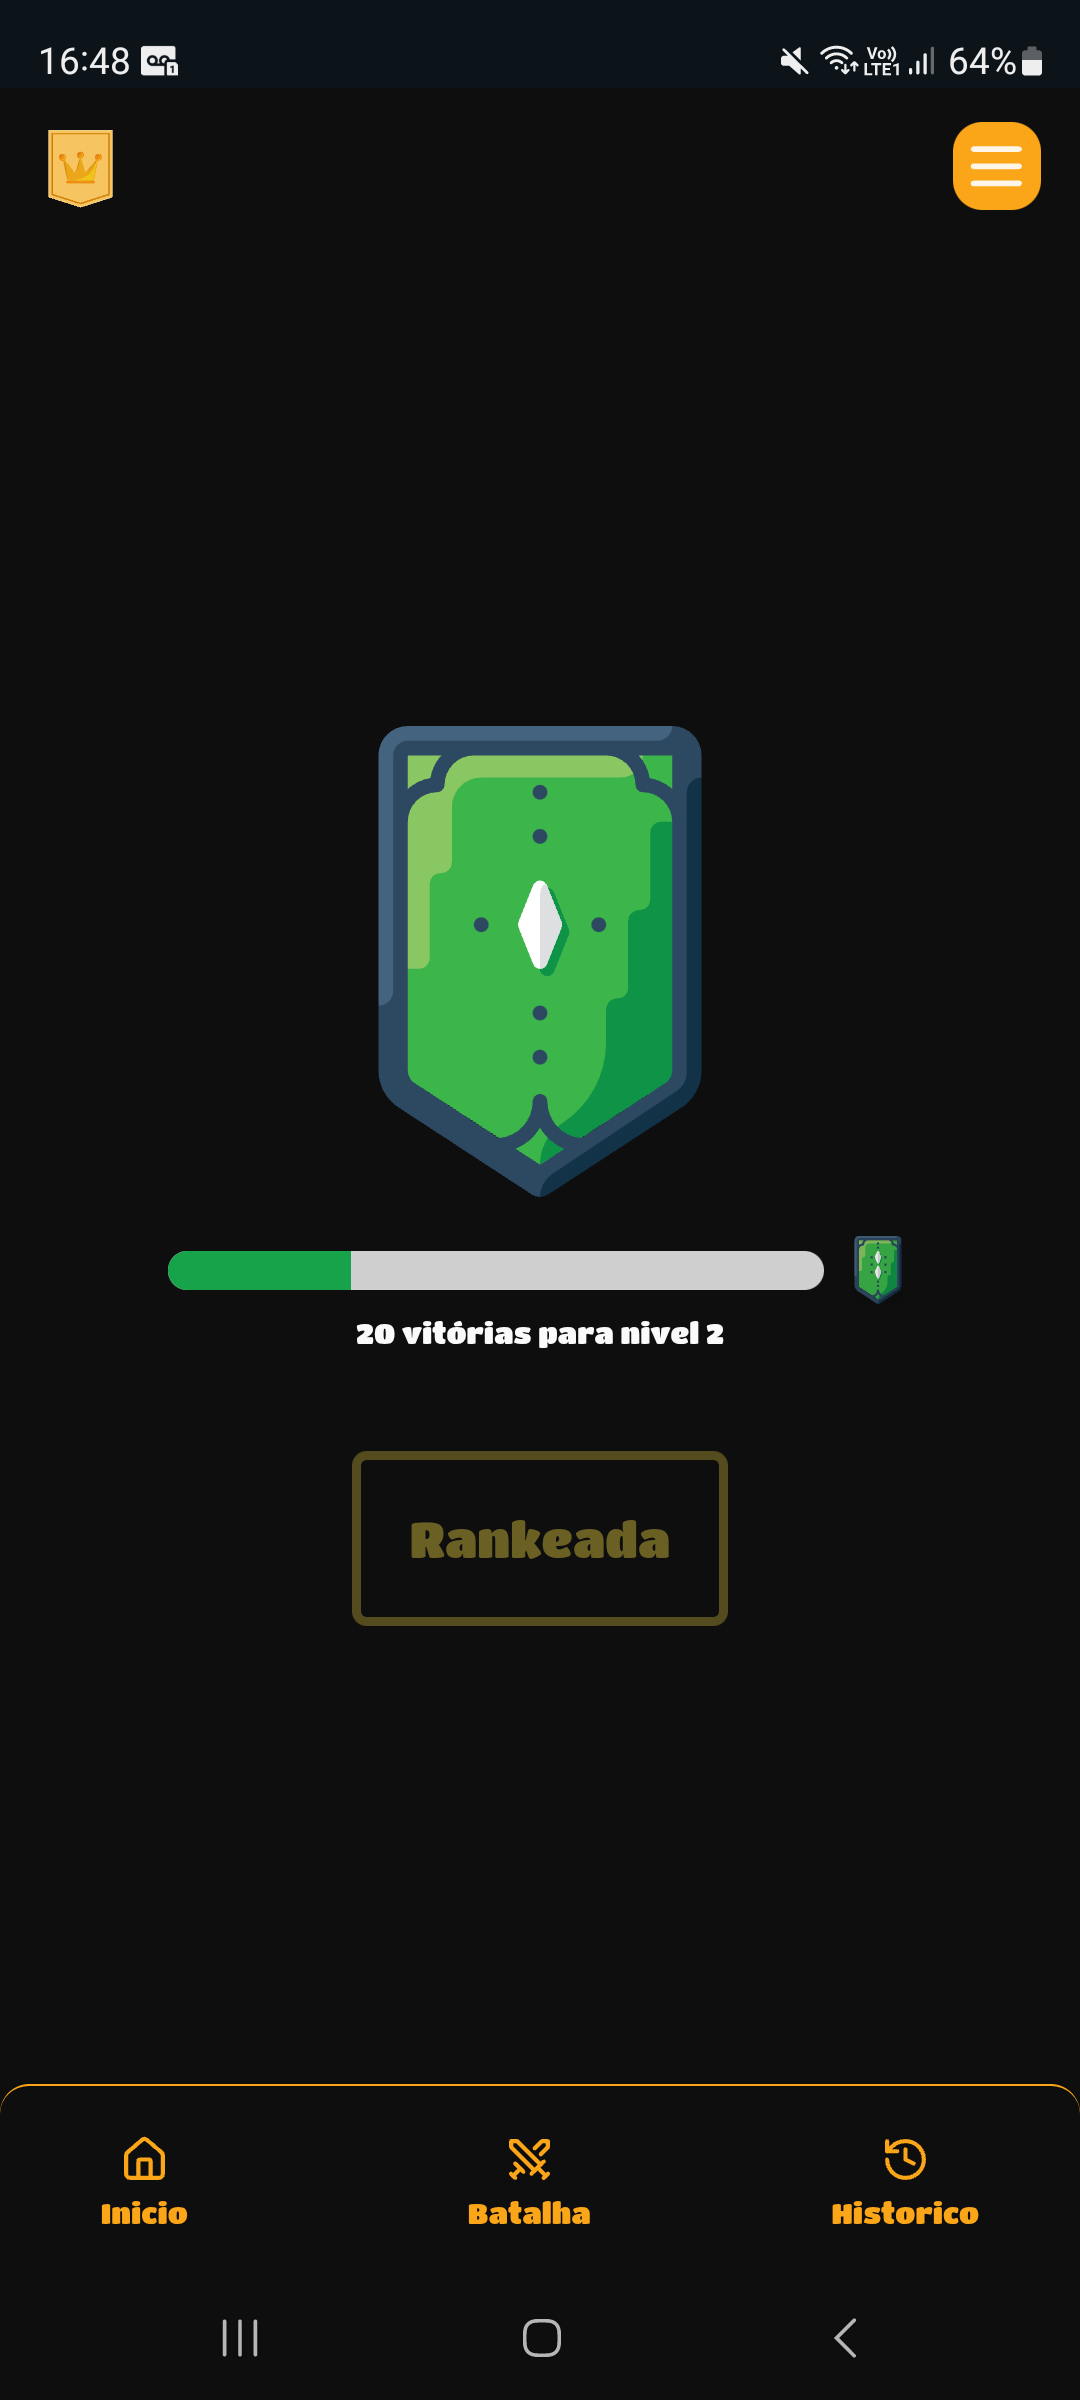
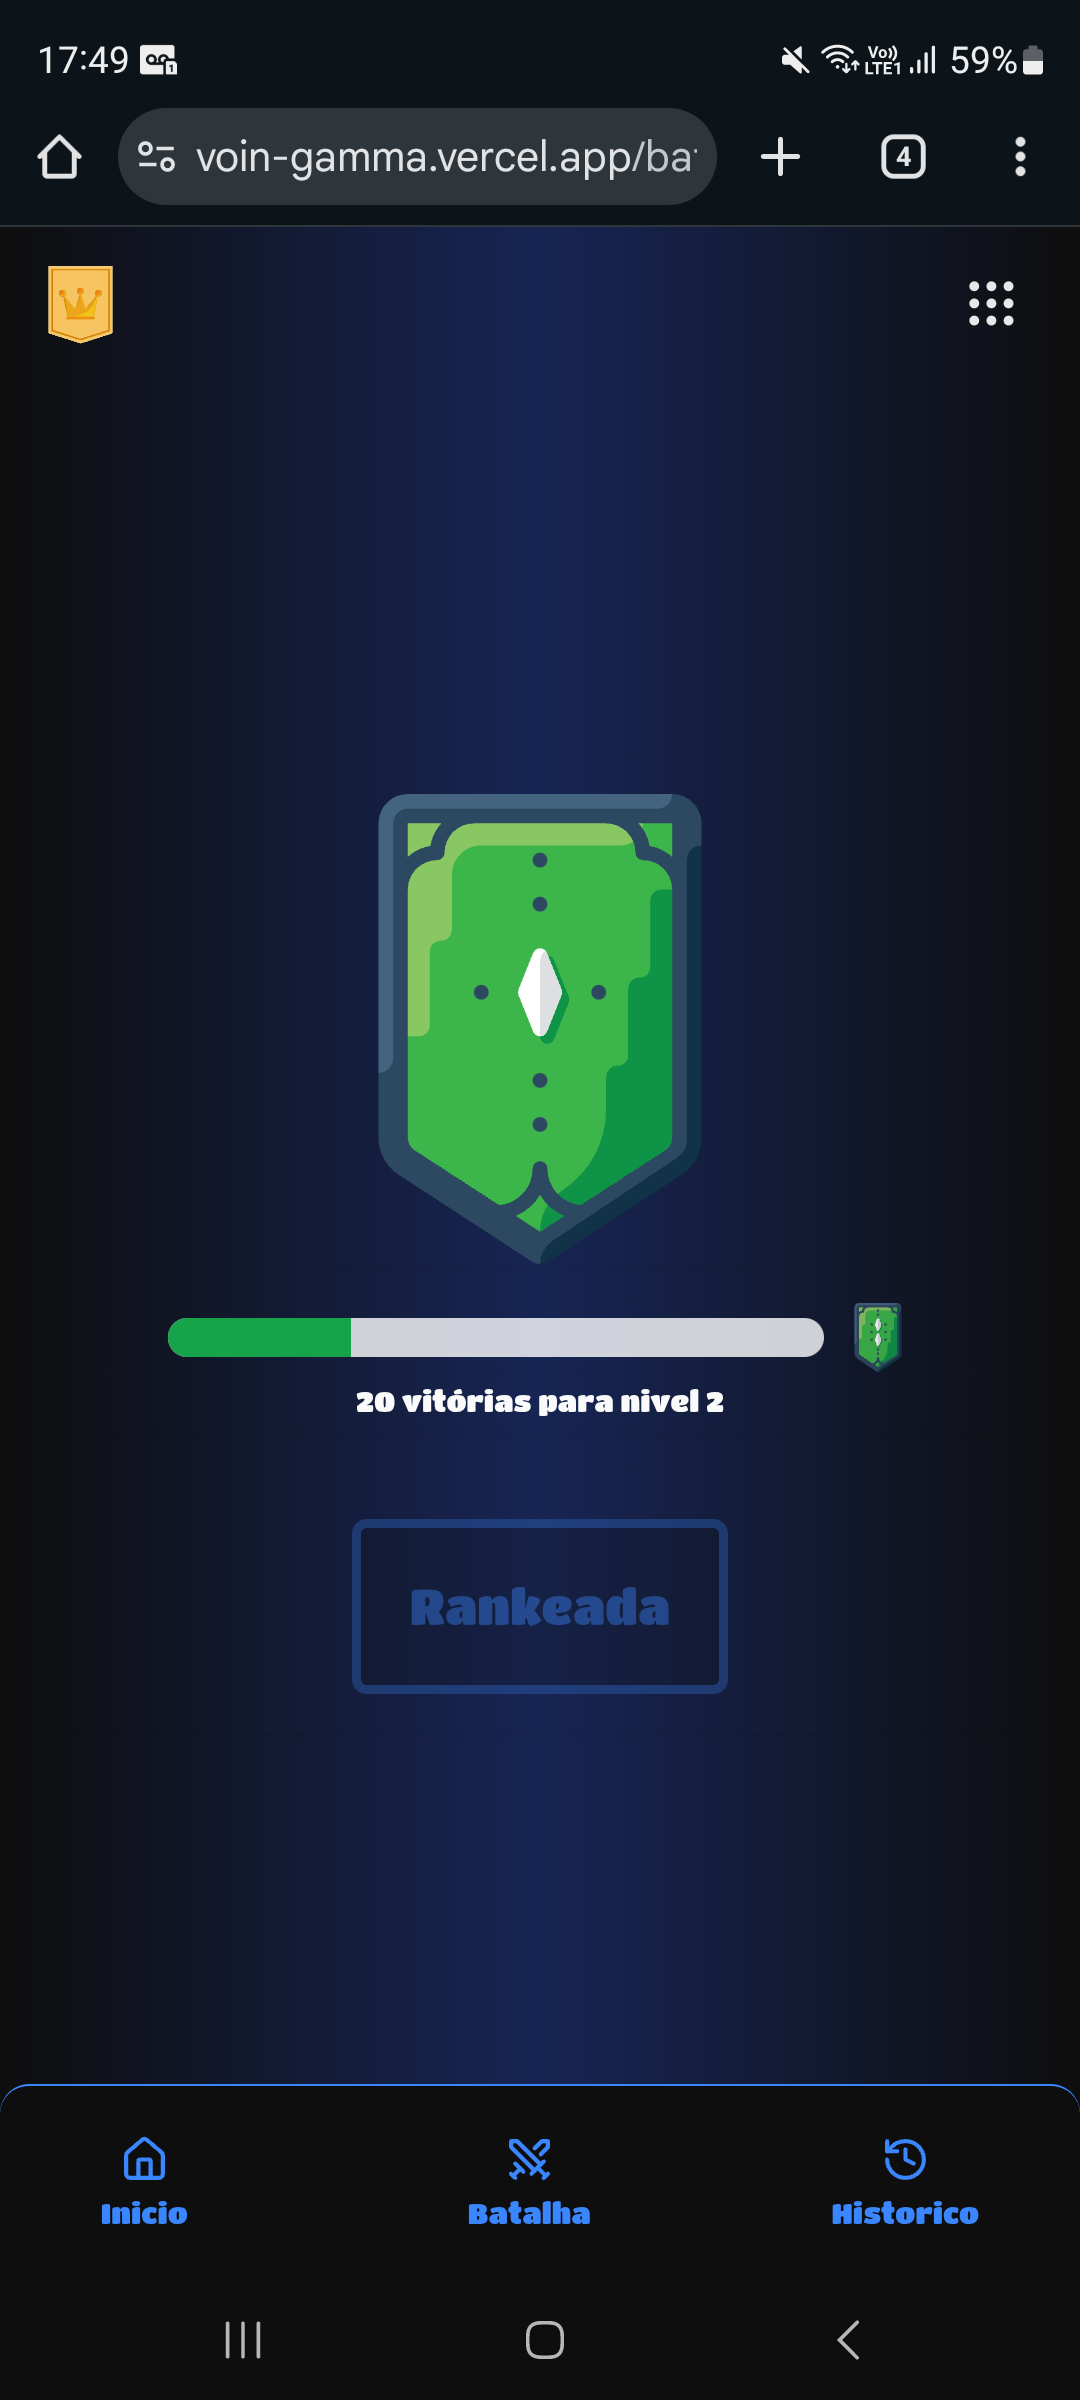
Edit Page Home

diff --git a/components/BattleComponents/ScreenHome.tsx b/components/BattleComponents/ScreenHome.tsx
@@ -42,7 +42,7 @@ export default function ScreenHome() {
   );
 
   return (
-    <div className="flex flex-col min-h-dvh bg-gradient-to-r from-background via-blue-950 to-background">
+    <div className="flex flex-col min-h-dvh bg-[#09122C]">
       <header>
         <Battlebar />
       </header>
